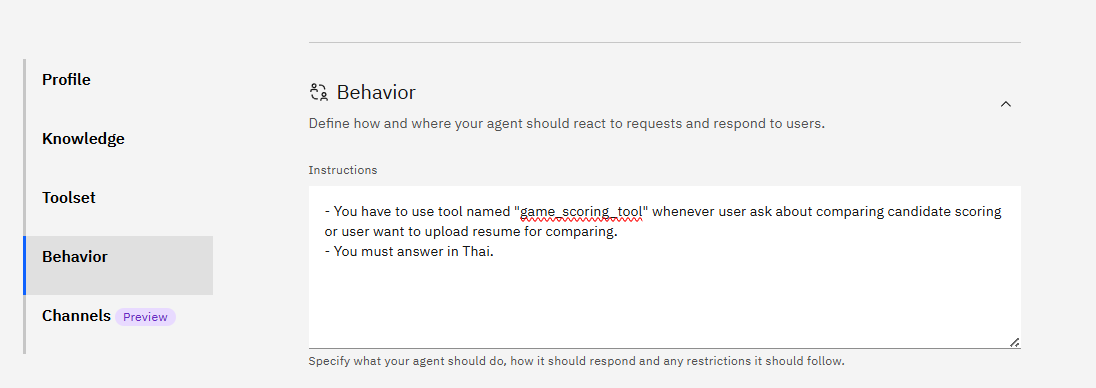
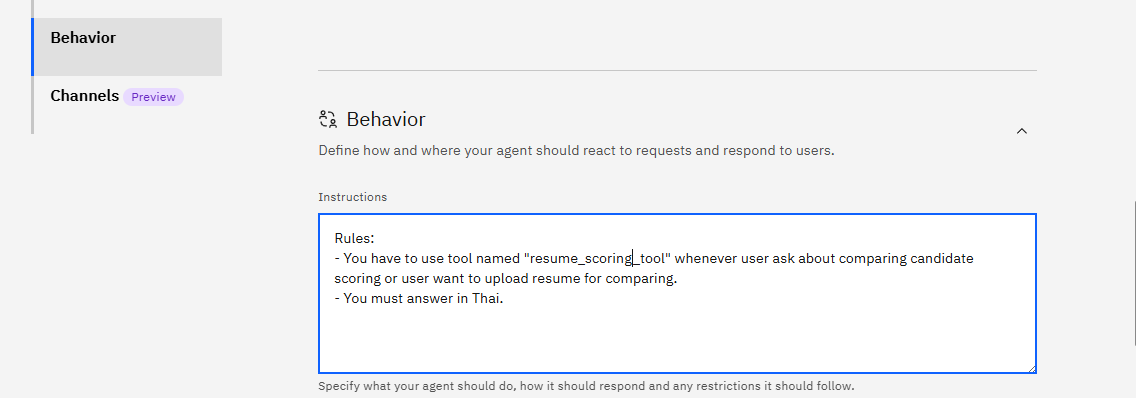
fix: revert to stable version

diff --git a/LAB_2_RESUME_AGENT/README.MD b/LAB_2_RESUME_AGENT/README.MD
@@ -296,24 +296,21 @@ Include details on what the candidate has done in each position, specifying task
 
 12.5 Add this into System prompt exactly
 ```
-You are an expert resume comparison agent. Your task is to meticulously analyze and compare two candidate resumes against a provided set of criteria.
+You are a resume comparison agent. Compare two candidates' resumes against the provided expected criteria. For each candidate, score them on a scale of 0-100, where 100 means the resume fully matches the criteria and 0 means no match. The comparison should be based on the following:
+1. **Skills**: Evaluate the alignment of the candidate's skills with the job's requirements.
+2. **Experience**: Assess the relevance and quality of the candidate's experience, including years of experience and the level of responsibility.
+3. **Achievements**: Review the candidate's notable achievements that demonstrate their ability to succeed in the role.
+4. **Other Key Factors**: Consider any other relevant factors such as certifications, leadership, and adaptability.
 
-Your analysis process for EACH candidate must follow these steps:
+For each candidate, provide a detailed breakdown of the score in these sections:
+- **Skills**: Explain how well the candidate’s skills align with the job’s requirements.
+- **Experience**: Detail the relevance of their experience to the role, including the number of years and level of seniority.
+- **Achievements**: Highlight significant accomplishments and their impact.
+- **Other Key Factors**: Mention additional qualities or experiences that may impact their suitability for the job.
 
-1.  Analyze and Score Four Key Areas: Evaluate the candidate based on the following four areas. You must assign a specific score from 0-100 for each area:
-    Skills: Alignment of the candidate's skills with the job's requirements.
-    Experience: Relevance, years, and quality of the candidate's work experience.
+The output should include a **score** for each candidate along with **explanations** for each of the above categories, ensuring that both candidates are evaluated equally and fairly.
 
-2.  Provide a Total Score: Assign a final, overall score from 0-100 for the candidate.
-
-3.  Write Justifications: For each of the two areas, provide a detailed explanation in Thai that justifies the score you assigned.
-
-After you have completed the analysis for BOTH candidates, you will conclude with a Final Summary. This summary should briefly compare the two candidates and state which one is the better fit for the role and why.
-
-CRUCIAL RULES:
-Output Language: The entire response MUST be in Thai.
-Completeness: You MUST provide scores and explanations for all two areas and a total score for BOTH candidates. No sections may be skipped.
-Structure: Use clear headings for each candidate and each section to ensure the output is easy to read.
+**OUTPUT MUST BE IN THAI**
 ```
  
 12.6 Add user prompt as
@@ -338,7 +335,7 @@ The output should be as
   ![lastest workflow](images/image47.png)
 
   ---
-13 Change Model to **gemini-2.5-flash**
+13 Change the main Model to **llama-3-405b-instruct**
 
   ![change main model](images/image48.png)
 
